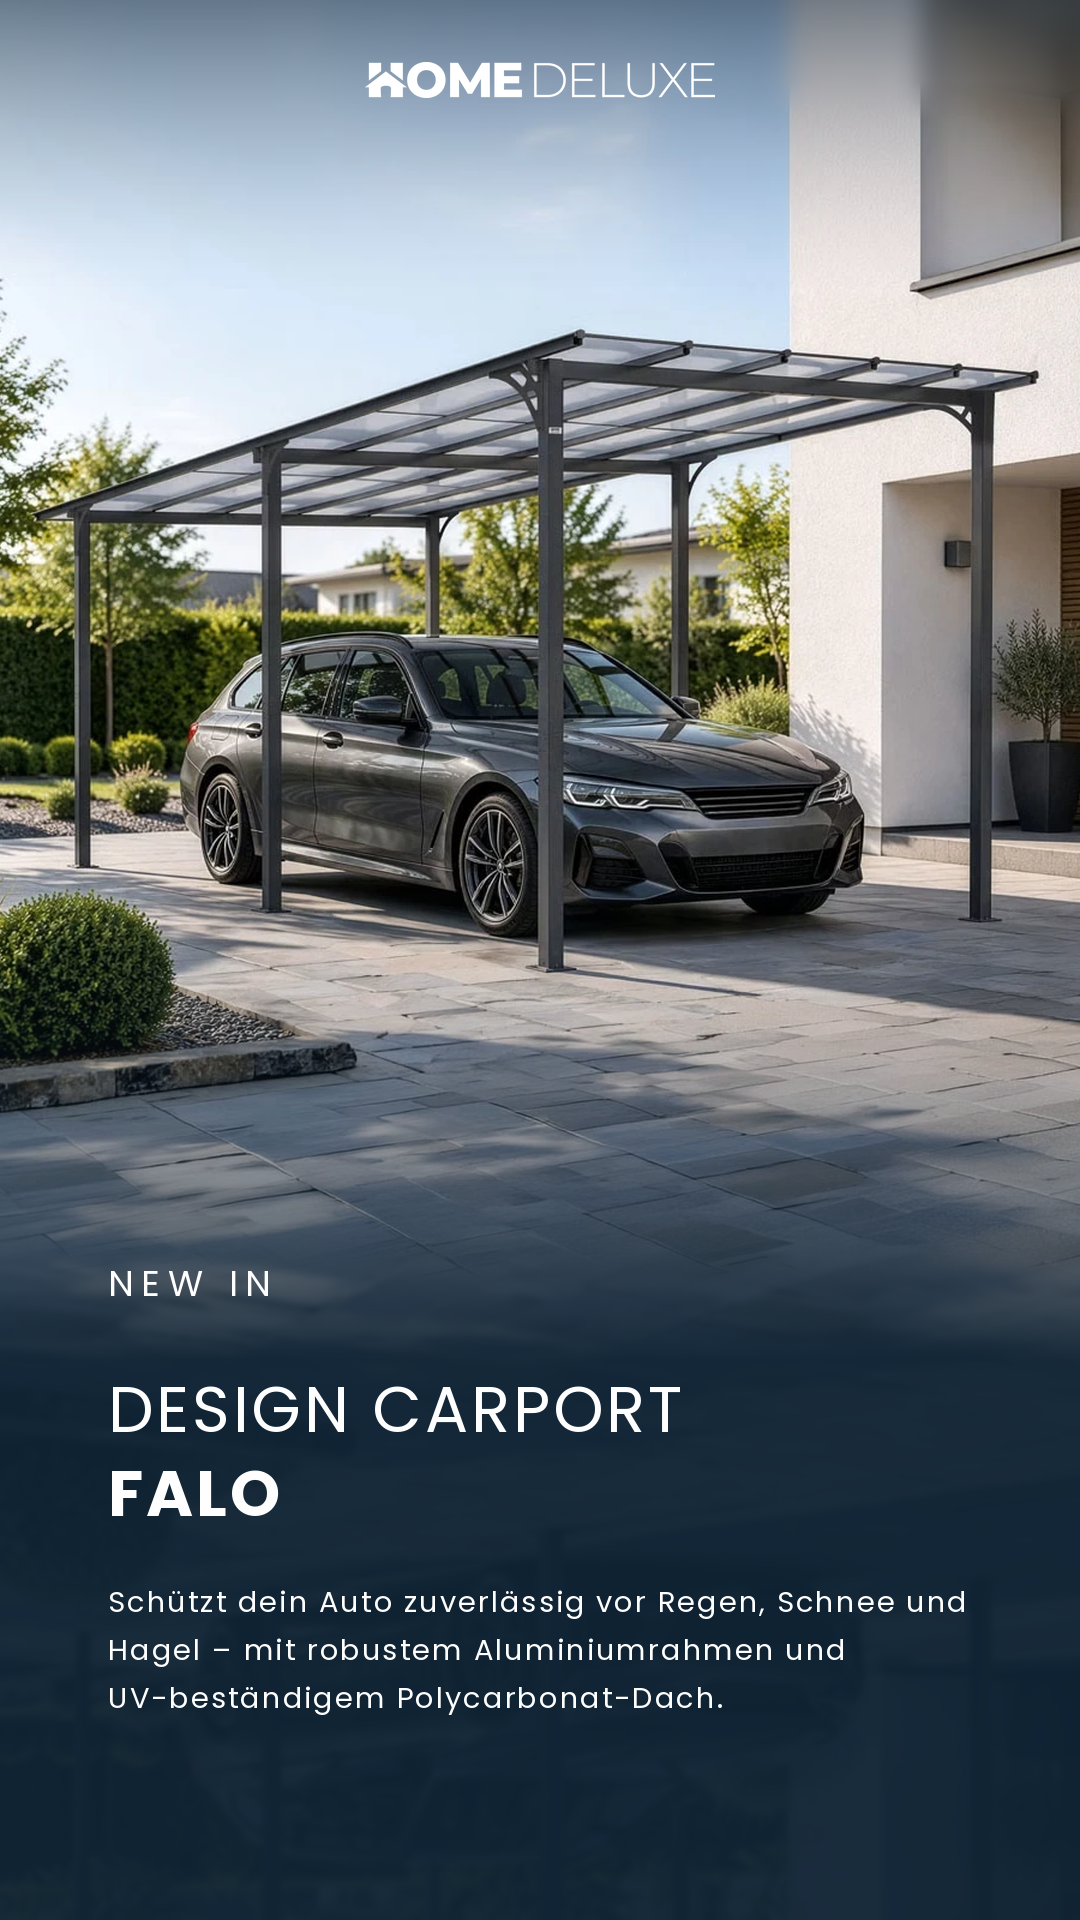
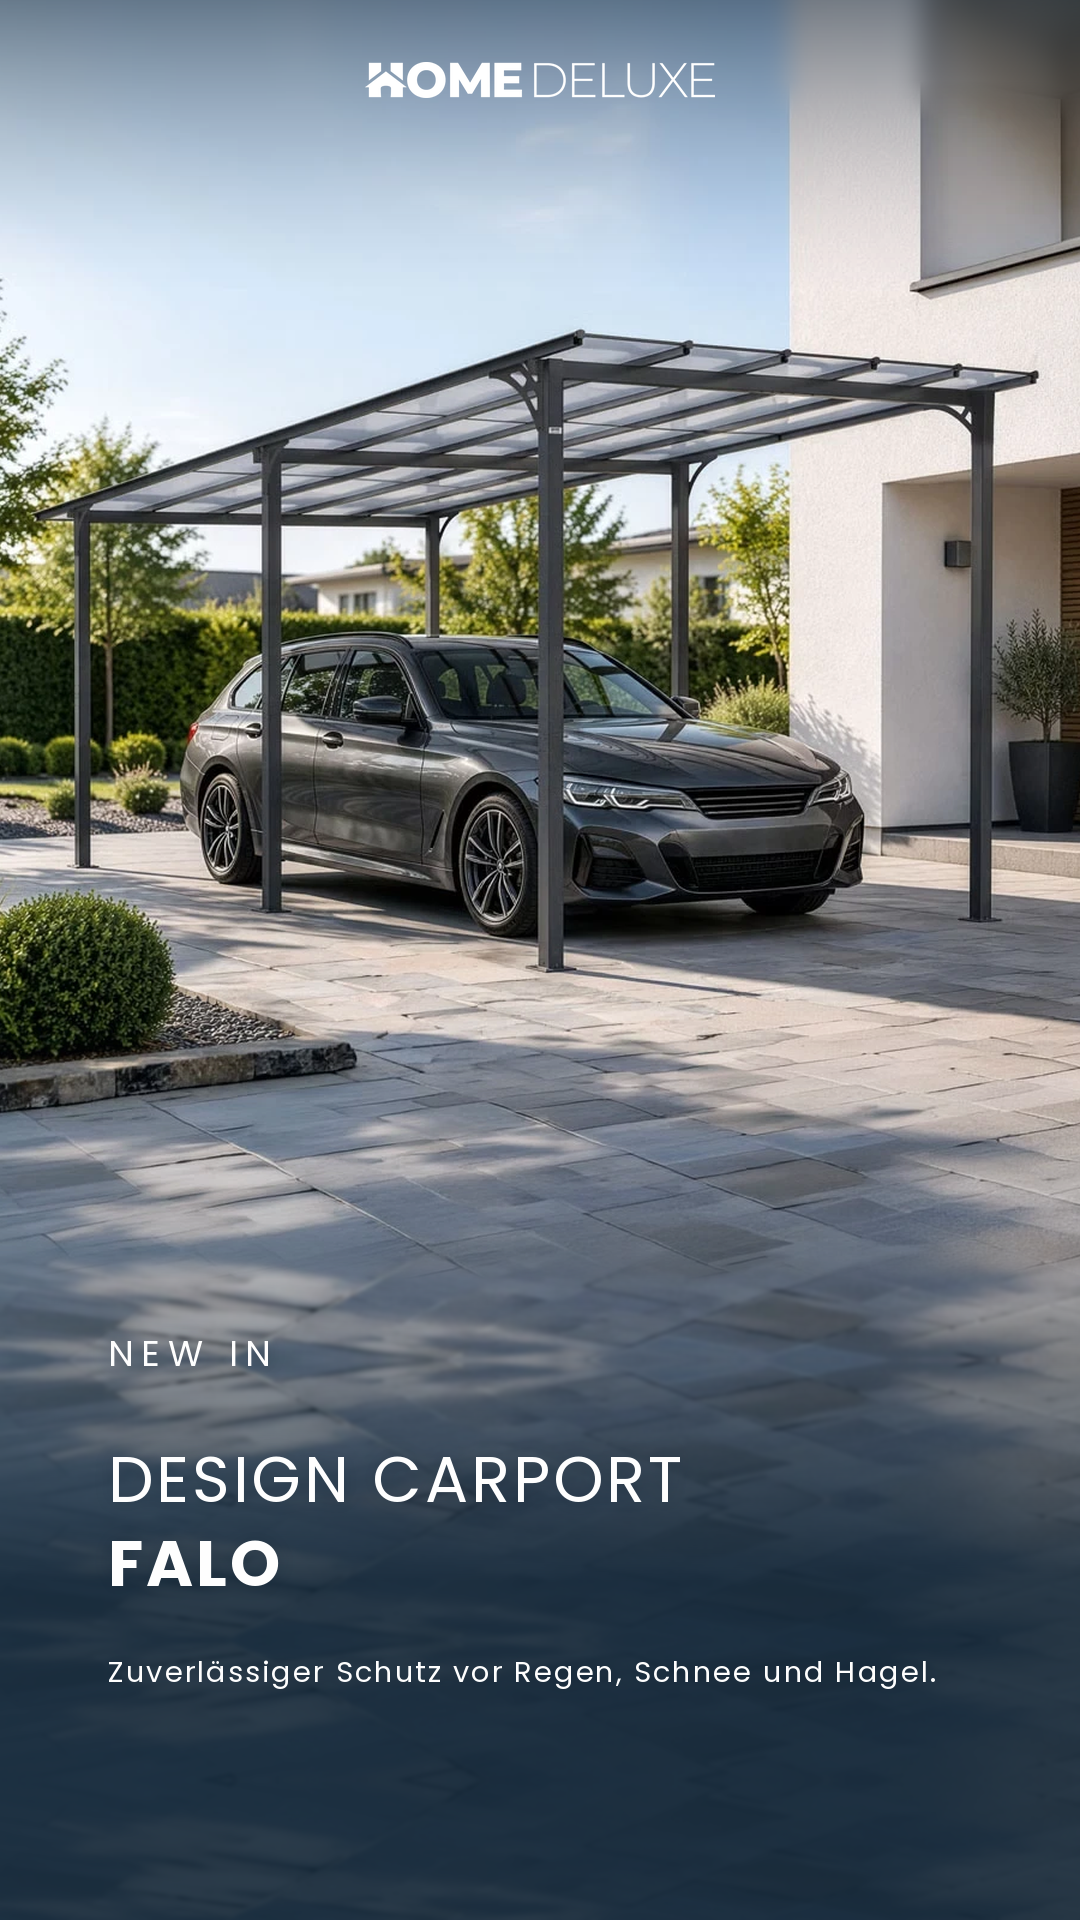
Carport story: softer navy gradient, shorter body copy
Gradient starts lower and is lighter; bottom fill uses paving only;
subtle text shadow keeps copy legible.

Claude-Session: https://claude.ai/code/session_01Fj9eHpP9dbzvtZ5kEGWanM

Changed region(s): [[0.0, 0.5, 1.0, 0.9062], [0.9778, 0.875, 1.0, 0.9062], [0.1528, 0.9375, 0.1833, 0.9688]]

diff --git a/reels/src/story_overlay.py b/reels/src/story_overlay.py
@@ -14,8 +14,7 @@ MX = 108  # linker Textrand
 KICKER = "NEW IN"
 NAME_LIGHT = "DESIGN CARPORT"
 NAME_BOLD = "FALO"
-BODY = ("Schützt dein Auto zuverlässig vor Regen, Schnee und Hagel – mit robustem "
-        "Aluminiumrahmen und UV-beständigem Polycarbonat-Dach.")
+BODY = "Zuverlässiger Schutz vor Regen, Schnee und Hagel."
 
 
 def font(w, size):
@@ -39,10 +38,13 @@ TOP = 80
 cv = Image.new("RGB", (W, H))
 # oben: Himmel aus den obersten Zeilen strecken
 cv.paste(img.crop((0, 0, W, 40)).resize((W, TOP + 40), Image.BICUBIC).filter(ImageFilter.GaussianBlur(12)), (0, 0))
-# unten: Pflaster gespiegelt fortsetzen (liegt später unter dem Verlauf)
+# unten: nur Pflasterstreifen abwechselnd gespiegelt fortsetzen (ohne Auto/Busch)
 bottom_h = H - (TOP + S)
-mirror = img.crop((0, S - bottom_h - 60, W, S)).transpose(Image.FLIP_TOP_BOTTOM).filter(ImageFilter.GaussianBlur(3))
-cv.paste(mirror, (0, TOP + S - 60))
+band = img.crop((0, S - 140, W, S))
+fill = Image.new("RGB", (W, bottom_h + 60))
+for k in range(0, fill.height, band.height):
+    fill.paste(band.transpose(Image.FLIP_TOP_BOTTOM) if (k // band.height) % 2 == 0 else band, (0, k))
+cv.paste(fill.filter(ImageFilter.GaussianBlur(2)), (0, TOP + S - 60))
 # Original mit weicher Kante drüber
 mask = Image.new("L", (W, S), 255)
 md = ImageDraw.Draw(mask)
@@ -59,13 +61,14 @@ gd = ImageDraw.Draw(grad)
 for y in range(0, 300):
     a = (1 - y / 300) ** 1.6 * 0.55
     gd.line([(0, y), (W, y)], fill=NAVY + (int(255 * a),))
-for y in range(860, H):
-    p = min(1.0, (y - 860) / 500)
-    a = (p ** 1.5) * 0.96
+for y in range(980, H):
+    p = min(1.0, (y - 980) / 600)
+    a = (p ** 1.5) * 0.88
     gd.line([(0, y), (W, y)], fill=NAVY + (int(255 * a),))
 cv.alpha_composite(grad)
 
-d = ImageDraw.Draw(cv)
+txt = Image.new("RGBA", (W, H), (0, 0, 0, 0))
+d = ImageDraw.Draw(txt)
 
 # --- Logo oben mittig ---
 logo = Image.open(os.path.join(HERE, "homedeluxe_logo_white.webp")).convert("RGBA")
@@ -79,9 +82,9 @@ f_light = font(400, 64)
 f_bold = font(700, 64)
 f_body = font(400, 29)
 
-tracked(d, MX, 1296, KICKER, f_kick, 8)
-tracked(d, MX, 1432, NAME_LIGHT, f_light, 3)
-tracked(d, MX, 1516, NAME_BOLD, f_bold, 3)
+tracked(d, MX, 1366, KICKER, f_kick, 8)
+tracked(d, MX, 1502, NAME_LIGHT, f_light, 3)
+tracked(d, MX, 1586, NAME_BOLD, f_bold, 3)
 
 # Beschreibung umbrechen
 maxw = W - 2 * MX
@@ -95,7 +98,12 @@ for w in words:
         cur = w
 lines.append(cur)
 for i, ln in enumerate(lines):
-    tracked(d, MX, 1612 + i * 48, ln, f_body, 2)
+    tracked(d, MX, 1682 + i * 48, ln, f_body, 2)
 
+# dezenter Navy-Schatten unter der Schrift für Lesbarkeit
+shadow = Image.new("RGBA", (W, H), NAVY + (0,))
+shadow.putalpha(txt.getchannel("A").filter(ImageFilter.GaussianBlur(10)).point(lambda v: int(v * 0.45)))
+cv.alpha_composite(shadow)
+cv.alpha_composite(txt)
 cv.convert("RGB").save(OUT, quality=95)
 print(OUT, len(lines), "Zeilen")
